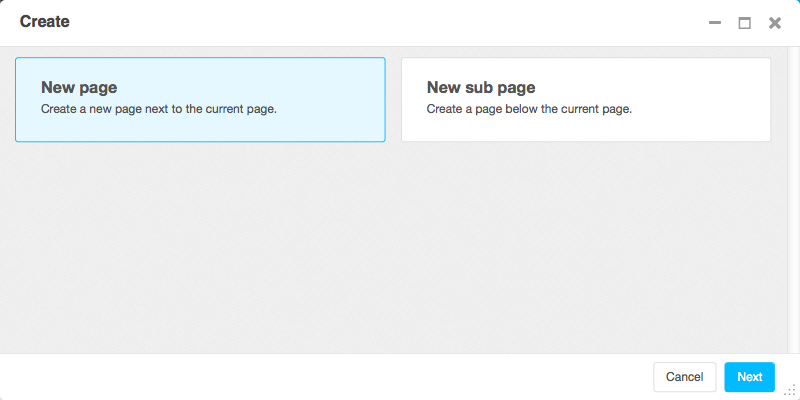
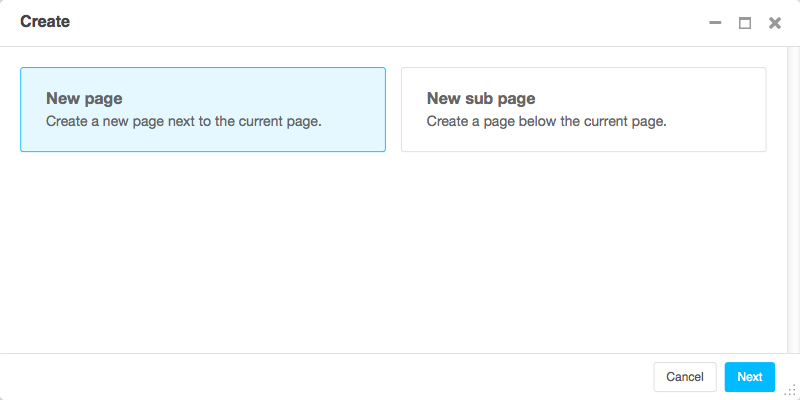
new images

diff --git a/docs/how_to/custom_plugins.rst b/docs/how_to/custom_plugins.rst
@@ -809,9 +809,9 @@ Example::
 Plugin data migrations
 ======================
 
-Due to the migration from mptt to treebeard in version 3.1, the plugin model is different between
-the two versions. Schema migration are not affected as the migration systems (both South and
-Django) detects the different bases.
+Due to the migration from Django MPTT to django-treebeard in version 3.1, the plugin model is
+different between the two versions. Schema migration are not affected as the migration systems
+(both South and Django) detects the different bases.
 
 Data migration are a different story, though.
 

diff --git a/docs/user/tutorial/page_settings.rst b/docs/user/tutorial/page_settings.rst
@@ -10,6 +10,7 @@ The *Change page* dialog that opens allows you to manage key settings for your p
 .. image:: /user/tutorial/images/change-page-dialog.png
    :alt: the 'Change page' dialog
    :align: center
+   :width: 50%
 
 
 Some key settings:
